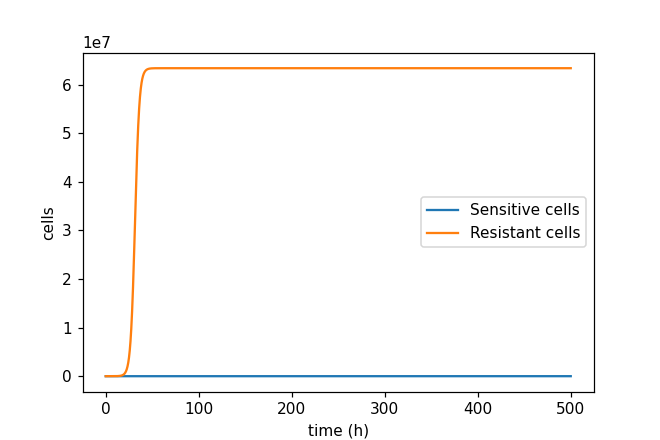
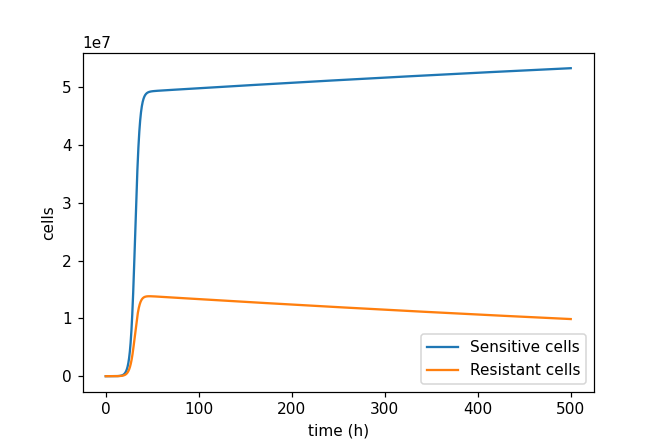
Built structure for 6-class model including conjugation, segregation,zeta based death rates and split the alpha cost between cost of plasmid, cost of resistance on plasmid and cost of resistance on chromosome.

diff --git a/non transposition model V1/amr6classes.py b/non transposition model V1/amr6classes.py
@@ -1,0 +1,186 @@
+"""
+Six-class ODE model: antibiotic resistance gene (ARG) carriage on plasmid vs chromosome.
+
+Combining the slurry-tank
+model of Baker et al. (2016) with the metal
+co-selection model of Arya et al. (2021), and splits the
+single resistant class of both papers into four, so that the same ARG can be carried
+chromosomally, on a plasmid, or both.
+
+Classes
+    S      no chromosomal ARG, no plasmid
+    S_P0   no chromosomal ARG, plasmid without ARG
+    R_P1   no chromosomal ARG, plasmid carrying ARG
+    R_C    chromosomal ARG, no plasmid
+    R_CP0  chromosomal ARG, plasmid without ARG
+    R_CP1  chromosomal ARG, plasmid carrying ARG
+
+Taken unchanged from the source papers
+    Logistic growth r(1 - N/Nmax)                              Baker Eq 1-2, Arya Eq 1-2
+    Frequency-dependent conjugation beta*recipients*donors/N   Baker Eq 1-2, Arya Eq 1-2
+    Antibiotic effect via Hill function Es, Er                 Baker Eq 7-8
+    Segregational plasmid loss epsilon                         Arya Eq 1-2, Table 1
+    Differential death rate from metal co-selection            Arya Eq 1-3
+
+Changed or added here
+    1. No inflow. Baker's slurry inflow, growing tank volume and antibiotic decay
+       (Baker Eq 4-6) are dropped, so this is a closed population. Antibiotic
+       concentration c is therefore a fixed parameter rather than A(t)/V(t).
+    2. zeta replaces Arya Eq 3. Arya converts a metal concentration M into a death
+       rate ratio; here zeta = deltaMS/deltaMR is set directly, so no metal-specific
+       parameters are needed. 
+    3. Metal resistance gene sits on the plasmid backbone, so both P0 and P1 confer
+       it.So R_C is antibiotic-resistant but metal-sensitive.
+    4. Cost of resistance alpha is split three ways: alpha_P (plasmid carriage),
+       alpha_Rp (ARG expressed from plasmid), alpha_Rc (ARG expressed from chromosome).
+    5. Plasmid-bearing cells cannot receive a second
+       plasmid (entry exclusion, and P0/P1 share a backbone so are incompatible).
+       Only S and R_C are recipients.
+    6. No transposition.
+"""
+import numpy as np
+import matplotlib.pyplot as plt
+from scipy.integrate import odeint
+
+LABELS = ['S', 'S_P0', 'R_P1', 'R_C', 'R_CP0', 'R_CP1']
+
+
+def hill_E(c, Emax, H, MIC):
+    #Baker Eq 7-8. Growth multiplier under antibiotic concentration c.
+     return 1 - Emax * c**H / (MIC**H + c**H)
+
+
+def amrmodel(x, t, p):
+    # Parameters are looked up by name, so ordering cannot go wrong.
+    r, Nmax = p['r'], p['Nmax']
+    Es, Er = p['Es'], p['Er']
+    deltaMS, deltaMR = p['deltaMS'], p['deltaMR']
+    beta, epsil = p['beta'], p['epsil']
+    alpha_P, alpha_Rp, alpha_Rc = p['alpha_P'], p['alpha_Rp'], p['alpha_Rc']
+
+    S, S_P0, R_P1, R_C, R_CP0, R_CP1 = x
+
+    N = S + S_P0 + R_P1 + R_C + R_CP0 + R_CP1
+    growth = r * (1 - N / Nmax)
+
+    # --- Conjugation -------------------------------------------------------
+    # Donor pools, grouped by plasmid cargo. Ex. R_CP0 donates P0 and R_CP1
+    # donates P1.
+    donP0 = S_P0 + R_CP0
+    donP1 = R_P1 + R_CP1
+
+    # Only plasmid-free cells (S, R_C) are recipients.
+    conj_S_P0  = beta * S   * donP0 / N
+    conj_S_P1  = beta * S   * donP1 / N
+    conj_RC_P0 = beta * R_C * donP0 / N
+    conj_RC_P1 = beta * R_C * donP1 / N
+
+    # --- Division of plasmid-bearing classes -------------------------------
+    # Each class divides at the logistic rate, reduced by its own costs and by
+    # its antibiotic multiplier (Es if antibiotic-sensitive, Er if resistant).
+    # A fraction epsil of these divisions produces a plasmid-free daughter
+    # (segregational loss); the remaining (1 - epsil) stay in the class. 
+    #
+    # Cost structure :
+    #   S_P0   plasmid only               
+    #   R_P1   plasmid + ARG on plasmid
+    #   R_CP0  plasmid + ARG on chromosome
+    #   R_CP1  carries two ARG copies. max() rather than a sum assumes expression
+    #          is regulated to a single-gene level, so the cell pays the larger of
+    #          the two ARG costs, not both. Switch to a sum for additive dosage.
+    div_S_P0  = growth * (1 - alpha_P)                            * Es * S_P0
+    div_R_P1  = growth * (1 - alpha_P - alpha_Rp)                 * Er * R_P1
+    div_R_CP0 = growth * (1 - alpha_P - alpha_Rc)                 * Er * R_CP0
+    div_R_CP1 = growth * (1 - alpha_P - max(alpha_Rc, alpha_Rp))  * Er * R_CP1
+
+    # --- Equations ---------------------------------------------------------
+    # Death: deltaMS for metal-sensitive classes (S, R_C), deltaMR for every
+    # plasmid-bearing class, since the metal resistance gene is on the plasmid
+    # backbone. 
+
+    # S: grows under antibiotic penalty Es, dies at the metal-sensitive rate,
+    # loses cells to conjugation, and regains them when S_P0 or R_P1 segregate.
+    dS = (growth * Es * S
+          - deltaMS * S
+          - conj_S_P0 - conj_S_P1
+          + epsil * (div_S_P0 + div_R_P1))
+
+    dS_P0 = ((1 - epsil) * div_S_P0
+             - deltaMR * S_P0
+             + conj_S_P0)
+
+    dR_P1 = ((1 - epsil) * div_R_P1
+             - deltaMR * R_P1
+             + conj_S_P1)
+
+    # R_C: antibiotic-resistant (Er) but metal-sensitive (deltaMS). 
+    dR_C = (growth * (1 - alpha_Rc) * Er * R_C
+            - deltaMS * R_C
+            - conj_RC_P0 - conj_RC_P1
+            + epsil * (div_R_CP0 + div_R_CP1))
+
+    dR_CP0 = ((1 - epsil) * div_R_CP0
+              - deltaMR * R_CP0
+              + conj_RC_P0)
+
+    dR_CP1 = ((1 - epsil) * div_R_CP1
+              - deltaMR * R_CP1
+              + conj_RC_P1)
+
+    return [dS, dS_P0, dR_P1, dR_C, dR_CP0, dR_CP1]
+
+
+if __name__ == "__main__":
+    from massbalancecheck import check_mass_balance
+
+
+    c = 2.0                    #Baker's concentration is of this order
+                               #(theta/(gamma*V) ~ 1-10 ug/L), will sweep.
+   
+    Emax, H = 2.0, 2.0         # From Baker et al. (2016) 
+    MICs, MICr = 8.0, 2000.0   # From Baker et al. (2016) 
+
+    deltaMR = 0.025            # From Arya et al. (2021) 
+    zeta = 1.20                # swept 1 - 10 in Arya et al. (2021), 
+                               # models a weak death rate currently
+    params = dict(
+        r=0.5,               # From Baker et al. (2016)
+        Nmax=6.71e7,         # From Arya et al. (2021)
+        Es=hill_E(c, Emax, H, MICs),
+        Er=hill_E(c, Emax, H, MICr),
+        deltaMR=deltaMR,             
+        deltaMS=deltaMR * zeta,
+        beta=0.001,                   # From Baker et al. (2016) 
+        
+        alpha_P=0.07,        # both papers take sum cost of resistance on plasmid 
+        alpha_Rp=0.03,       # at 0.1, split values are assumptions to test.
+        
+        alpha_Rc=0.015,      # assummed at 1/2 of alpha_Rp since plasmids
+                             # can contain many copies of R gene.
+        
+        epsil=0.000144,        # From Arya et al. (2021)
+    )
+
+    # conjugation and segregation only move cells between classes. A residual
+    # above floating-point noise means a flow term is dropped or duplicated.
+    # a test for bugs.
+    
+    print("mass balance residual = %.3e" % check_mass_balance(params, amrmodel))
+
+    x0 = [100.0] * 6          # equal start: no class favoured by initial conditions
+    t = np.arange(0, 4000, 0.5)
+    out = odeint(amrmodel, x0, t, args=(params,))
+
+    print("Es = %.4f   Er = %.4f" % (params['Es'], params['Er']))
+    print("min value anywhere = %.4g" % out.min())   # negative => invalid run
+    print("final N / Nmax = %.4f" % (out[-1].sum() / params['Nmax']))
+    print("\nfinal state:")
+    tot = out[-1].sum()
+    for lab, v in zip(LABELS, out[-1]):
+        print("  %-6s %12.4e   (%.4f)" % (lab, v, v / tot))
+
+    for i, lab in enumerate(LABELS):
+        plt.plot(t, out[:, i], label=lab)
+    # log scale: classes span many orders of magnitude
+    plt.yscale('log'); plt.legend(); plt.xlabel('time (h)'); plt.ylabel('cells')
+    plt.savefig('amr6.png', dpi=110)

diff --git a/non transposition model V1/simple ODE structure.py b/non transposition model V1/simple ODE structure.py
@@ -11,11 +11,7 @@ Y
 (R_CP0) resistant cells with ARG on chromosome + plasmid with no ARG
 
 (R_CP1) resistant cells with ARG on chromosome + plasmid with ARG
-we are working from the previous model created by Arya et al 2021
-i believe this does not include seperate effects for ARG on chromosomes
-vs plasmids.
 
-We can start with the susceptible cell since that contains ARG on neither
 """
 
 import numpy as np
@@ -27,7 +23,7 @@ def hill_E(c, Emax, H, MIC):
     return 1 - Emax * c**H / (MIC**H + c**H)
 
 
-c = 10.0
+c = 2
 Emax, H = 2.0, 2.0
 MICs, MICr = 8.0, 2000.0
 
@@ -36,35 +32,73 @@ Er = hill_E(c, Emax, H, MICr)
 
 
 def amrmodel(x, t, params):
-    r, Nmax, Es, Er, deltaS, deltaR, beta, alpha, epsil = params
-    S, R = x
+    r, Nmax, Es, Er, deltaMS, deltaMR, beta, alpha_P,alpha_Rp, alpha_Rc, epsil = params
+    S, S_P0, R_P1, R_C, R_CP0,R_CP1 = x
 
-    N = S + R
+    N = S, S_P0, R_P1, R_C, R_CP0,R_CP1
+    
     growth = r * (1 - N / Nmax)
-    conj = beta * S * R / N
-    divR = growth * (1 - alpha) * Er * R
+    conjSxS_P0 = beta * S * (S_P0 +R_CP0) / N
+    
+    conjSxR_P1 = beta * S * (R_P1 +R_CP1) / N
+    
+    conjR_CxR_CP0 = beta * R_C * (S_P0 +R_CP0) / N
+    
+    conjR_CxR_CP1 = beta * R_C * (R_P1 +R_CP1) / N
+    
+    segrS_P0xS = growth * (1 - (alpha_P)) * Es * S_P0
+    
+    segrR_P1xS = growth * (1 - (alpha_P + alpha_Rp)) * Er * R_P1
+    
+    segrR_CP0xR_C = growth * (1 - (alpha_P + alpha_Rc)) * Er * R_CP0
+    
+    segrR_CP1xR_C = growth * (1 - (alpha_P + alpha_Rc + alpha_Rp)) * Er * R_CP1
 
     dS = (growth * Es * S
-          - deltaS * S
-          - conj
-          + epsil * divR)
+          - deltaMS * S
+          - conjSxS_P0
+          - conjSxR_P1
+          + epsil * segrS_P0xS
+          + epsil * segrR_P1xS)
 
-    dR = ((1 - epsil) * divR
-          - deltaR * R
-          + conj)
+    dS_P0 = ((1 - epsil) * segrS_P0xS
+          - deltaMR * S_P0
+          + conjSxS_P0)
+    
+    dR_P1 = ((1 - epsil) * segrR_P1xS
+          - deltaMR * R_P1
+          + conjSxR_P1)
+    
+    dR_C = (growth * Er * R_C
+          - deltaMS * R_C
+          - conjR_CxR_CP0
+          - conjR_CxR_CP1
+          + epsil * segrR_CP0xR_C
+          + epsil * segrR_CP1xR_C)
+    
+    dR_CP0 = ((1 - epsil) * segrR_CP0xR_C
+          - deltaMR * R_CP0
+          + conjR_CxR_CP0)
+    
+    dR_CP1 = ((1 - epsil) * segrR_CP1xR_C
+          - deltaMR * R_CP1
+          + conjR_CxR_CP1)
 
-    return [dS, dR]
+    return [dS, dS_P0, dR_P1, dR_C, dR_CP0, dR_CP1]
 
 
 r = 0.5
 Nmax = 6.71e7
-deltaR = 0.025
-deltaS = deltaR * 3
+deltaMR = 0.025
+deltaMS = deltaMR * 1.02
 beta = 0.001
-alpha = 0.1
+alpha_P = 0
+alpha_Rp = 0
+alpha_Rc = 0
 epsil = 0.000144
 
-params = [r, Nmax, Es, Er, deltaS, deltaR, beta, alpha, epsil]
+params = [r, Nmax, Es, Er, deltaMS, deltaMR, beta,
+           alpha_P,alpha_Rc, alpha_Rp, epsil]
 
 x0 = [100, 100]
 

diff --git a/non transposition model V1/massbalancecheck.py b/non transposition model V1/massbalancecheck.py
@@ -1,0 +1,55 @@
+"""Mass-balance check for the six-class AMR model.
+
+Conjugation and segregation only move cells between classes, so they must
+cancel when the six derivatives are summed. Whatever is left over has to equal
+total births minus total deaths. A non-zero residual means a bookkeeping
+error: a flow added to one equation but not subtracted from another, a wrong
+epsil split, a duplicated term, or a wrong per-class growth term.
+"""
+import numpy as np
+
+
+def expected_net(x, p):
+    """Births minus deaths, written out independently of the model."""
+    r, Nmax = p['r'], p['Nmax']
+    Es, Er = p['Es'], p['Er']
+    deltaMS, deltaMR = p['deltaMS'], p['deltaMR']
+    alpha_P, alpha_Rp, alpha_Rc = p['alpha_P'], p['alpha_Rp'], p['alpha_Rc']
+
+    S, S_P0, R_P1, R_C, R_CP0, R_CP1 = x
+
+    N = S + S_P0 + R_P1 + R_C + R_CP0 + R_CP1
+    growth = r * (1 - N / Nmax)
+
+    births = growth * (
+        Es * S
+        + (1 - alpha_P) * Es * S_P0
+        + (1 - alpha_P - alpha_Rp) * Er * R_P1
+        + (1 - alpha_Rc) * Er * R_C
+        + (1 - alpha_P - alpha_Rc) * Er * R_CP0
+        + (1 - alpha_P - max(alpha_Rc, alpha_Rp)) * Er * R_CP1
+    )
+    deaths = deltaMS * (S + R_C) + deltaMR * (S_P0 + R_P1 + R_CP0 + R_CP1)
+    return births - deaths
+
+
+def check_mass_balance(p, model, n=500, seed=0, tol=1e-9):
+    """Raise AssertionError if the model's flows don't balance.
+
+    Costs must be non-zero, or the per-class growth terms aren't exercised
+    and a wrong cost cannot show up.
+    """
+    if p['alpha_P'] == p['alpha_Rp'] == p['alpha_Rc'] == 0:
+        raise ValueError("set non-zero costs before testing, or growth terms are untested")
+
+    rng = np.random.default_rng(seed)
+    worst = 0.0
+    for _ in range(n):
+        x = rng.uniform(0.0, 2e7, 6)
+        total = sum(model(x, 0.0, p))
+        residual = total - expected_net(x, p)
+        scale = max(abs(total), 1.0)          # relative: values are ~1e6
+        worst = max(worst, abs(residual) / scale)
+
+    assert worst < tol, "mass balance violated: relative residual %.3e" % worst
+    return worst
